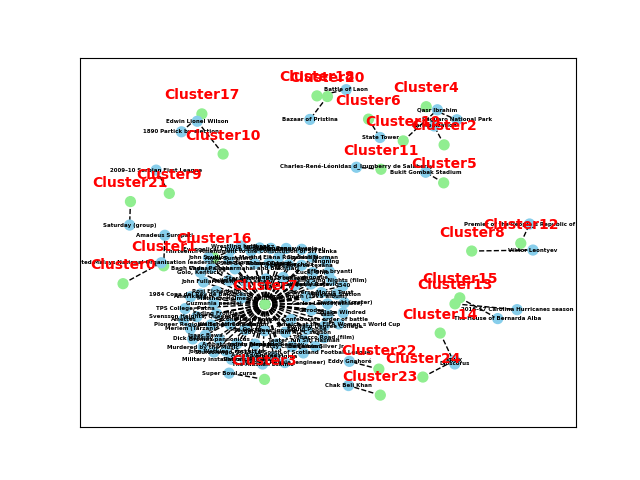
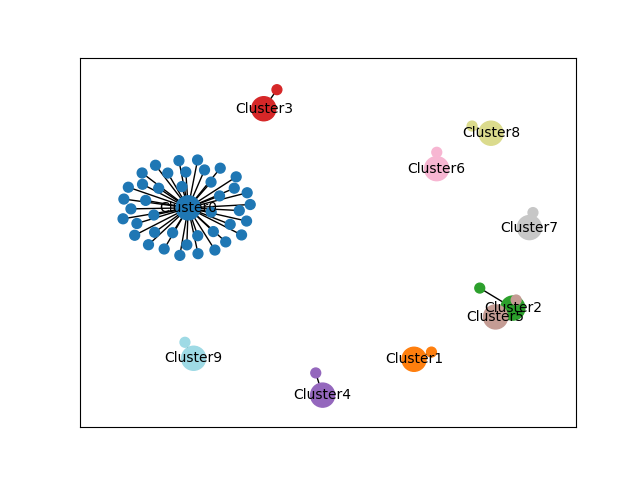
fix

Changed region(s): [[0.125, 0.125, 0.9062, 0.8438], [0.6875, 0.4375, 0.9062, 0.5312]]

diff --git a/main.py b/main.py
@@ -76,57 +76,67 @@ def group_articles_based_on_prediction(files, prediction, number_of_categories):
 def plot_graph(files, number_of_categories):
     G = nx.Graph()
 
-    for i in range(number_of_categories):
-        G.add_node(f"Cluster{i}", type='category')
+    # Prepare a list of distinct colors, one for each category
+    distinct_colors = plt.cm.get_cmap('tab20', number_of_categories)
 
+    # Add category nodes with distinct colors
+    for i in range(number_of_categories):
+        G.add_node(f"Cluster{i}", type='category', color=distinct_colors(i), size=300)
+
+    # Add article nodes and connect them to their respective category
     for i, file_name in enumerate(files):
         category_index = preds[i]
-        G.add_node(file_name, type='article')
-        G.add_edge(file_name, f"Cluster{category_index}")
+        G.add_node(file_name, type='article', color=distinct_colors(category_index), size=50)
+        G.add_edge(file_name, f"Cluster{category_index}", weight=1)
 
-    color_map = []
-    for node in G:
-        if G.nodes[node]['type'] == 'article':
-            color_map.append('skyblue')
-        else:
-            color_map.append('lightgreen')
+    # Generate a color map and size list
+    color_map = [G.nodes[node]['color'] for node in G]
+    size_list = [G.nodes[node]['size'] for node in G]
 
+    # Generate positions for each node
     pos = nx.spring_layout(G, k=0.5, iterations=100)
 
-    nx.draw_networkx_nodes(G, pos, node_color=color_map, node_size=50)
+    # Draw the nodes with the color map and size list
+    nx.draw_networkx_nodes(G, pos, node_color=color_map, node_size=size_list)
 
-    nx.draw_networkx_edges(G, pos, edge_color='black', style='dashed')
+    # Draw the edges with varying thickness
+    edges = G.edges()
+    weights = [G[u][v]['weight'] for u, v in edges]
+    nx.draw_networkx_edges(G, pos, width=weights)
 
-    label_pos = {k: [v[0], v[1] + 0.1] for k, v in pos.items()}
-
-    not_category_labels = {node: node for node in G.nodes if G.nodes[node]['type'] != 'category'}
-    nx.draw_networkx_labels(G, pos, labels=not_category_labels, font_weight="bold", font_size=4)
+    # Draw labels for categories only
     category_labels = {node: node for node in G.nodes if G.nodes[node]['type'] == 'category'}
-    nx.draw_networkx_labels(G, label_pos, labels=category_labels, font_weight='bold', font_color='red', font_size=10)
+    nx.draw_networkx_labels(G, pos, labels=category_labels, font_size=10)
 
+    # Set the plot size
     plt.figure(figsize=(12, 8))
+
+    # Turn off the axis
     plt.axis('off')
+
+    # Show the plot
     plt.show()
 
 
 def show_dendogram(vectors, cluster_labels):
     Z = linkage(vectors, method='ward')
 
-    labels = ['{}-{}'.format(i, label) for i, label in enumerate(cluster_labels)]
+    labels = [f"Cluster {label}" for i, label in enumerate(cluster_labels)]
 
-    plt.figure(figsize=(20, 20))
+    plt.figure(figsize=(25, 10))
     plt.title('Hierarchical Clustering Dendrogram')
-    plt.xlabel('Sample index or (Cluster size)')
+    plt.xlabel('Index or Cluster Size')
     plt.ylabel('Distance')
+
     dendrogram(
         Z,
         truncate_mode='lastp',
-        labels=np.array(labels),
-        leaf_font_size=12,
+        labels=labels,
+        leaf_rotation=90.,
+        leaf_font_size=12.,
         show_contracted=True,
     )
 
-    plt.tight_layout()
     plt.show()
 
 
@@ -137,7 +147,7 @@ if __name__ == '__main__':
 
     files = os.listdir(files_path)
 
-    num_files_to_select = 100
+    num_files_to_select = 300
 
     files = random.sample(files, min(num_files_to_select, len(files)))
 
@@ -152,7 +162,7 @@ if __name__ == '__main__':
     show_dendogram(vectors, preds)
 
     preds = classify(vectors, AlgorithmType.KMeans)
-    plot_graph(files, 25)
+    plot_graph(files, 10)
 
 
     print(preds[:100])

diff --git a/classificator.py b/classificator.py
@@ -10,9 +10,9 @@ class AlgorithmType(Enum):
 def classify(data, alg=0):
     print("classify")
     if alg == AlgorithmType.KMeans:
-        classifier = KMeans(n_clusters=25)
+        classifier = KMeans(n_clusters=10)
     elif alg == AlgorithmType.AgglomerativeClustering:
-        classifier = AgglomerativeClustering(n_clusters=25, affinity='euclidean', linkage='ward')
+        classifier = AgglomerativeClustering(n_clusters=10, affinity='euclidean', linkage='ward')
         classifier.fit(data)
         return classifier.labels_
     elif alg == AlgorithmType.GaussianN:
